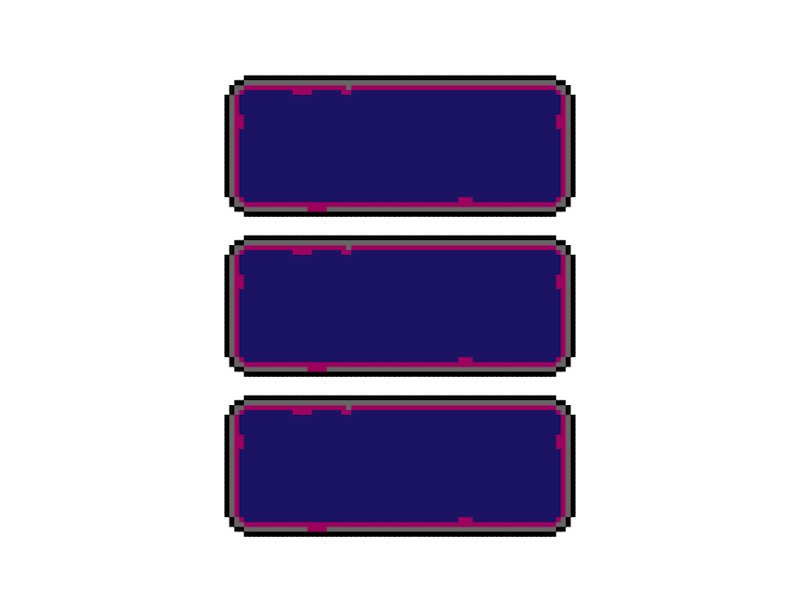
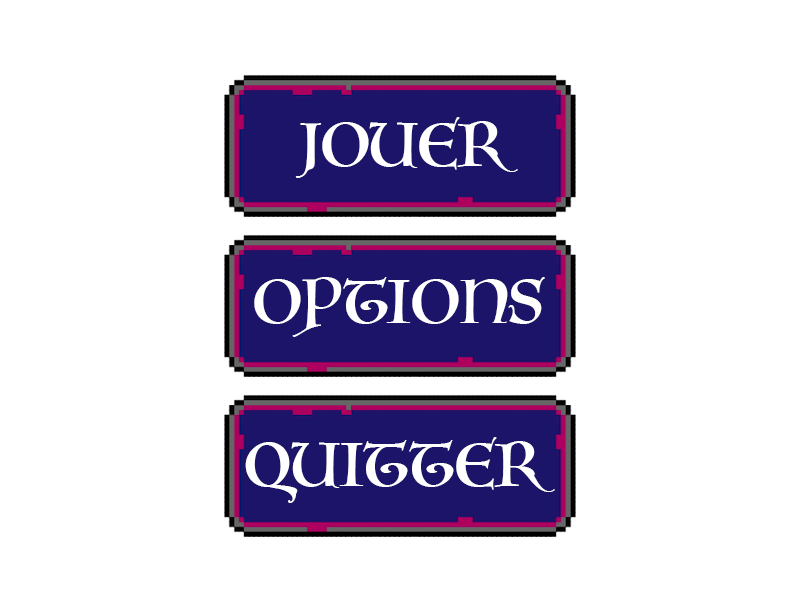
add: new buttons images

Changed region(s): [[0.2812, 0.7188, 0.6875, 0.8125], [0.3125, 0.4375, 0.6875, 0.5625], [0.375, 0.1875, 0.625, 0.2812]]

diff --git a/src/doctrina/Camera.java b/src/doctrina/Camera.java
@@ -29,6 +29,10 @@ public class Camera extends StaticEntity implements Runnable {
     public void update() {
         updateNewPositionPlayer();
         updateNewDestination();
+
+        if (destinationX < 500) {
+            destinationX = 500;
+        }
         setPosition(destinationX, destinationY);
     }
 
